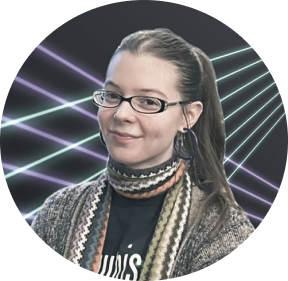
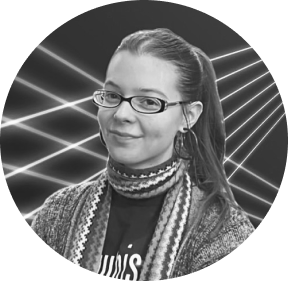
add dyanmic noise & headshot border

diff --git a/css/style.css b/css/style.css
@@ -14,6 +14,45 @@ body {
   position: relative;
 }
 
+body::after {
+  content: "";
+  position: fixed;
+  inset: 0;
+
+  background-image: url("../assets/textures/noise_layer.png");
+  background-size: cover;
+  background-position: center;
+
+  opacity: 0.85;
+  mix-blend-mode: multiply;
+
+  pointer-events: none;
+  z-index: 99999;
+
+  animation: noise-shift 0.9s steps(1) infinite;
+}
+
+@keyframes noise-shift {
+  0% {
+    transform: scale(1.1) scaleX(1);
+  }
+
+  25% {
+    transform: scale(1.1) scaleX(-1);
+  }
+
+  50% {
+    transform: scale(1.1) scaleY(-1);
+  }
+
+  75% {
+    transform: scale(1.1) scale(-1, -1);
+  }
+
+  100% {
+    transform: scale(1.1) scaleX(1);
+  }
+}
 .homepage {
   position: relative;
   width: min(100vw, calc(100vh * (1280 / 1080)));
@@ -34,21 +73,6 @@ body {
   height: 100%;
   object-fit: cover;
   z-index: 0;
-}
-
-.noise {
-  position: fixed;
-  inset: 0;
-
-  width: 100vw;
-  height: 100vh;
-
-  object-fit: cover;
-
-  opacity: 0.9;
-  pointer-events: none;
-
-  z-index: 999;
 }
 
 .issue-tag {
@@ -391,7 +415,7 @@ body {
   position: absolute;
 
   left: 15%;
-  top: 16%;
+  top: 11%;
 
   font-family: 'Space Grotesk', sans-serif;
   font-size: 2.2rem;
@@ -401,22 +425,33 @@ body {
   z-index: 5;
 }
 
+.about-headshot-border {
+  position: absolute;
+
+  width: 18%;
+  left: 61.8%;
+  top: 10%;
+
+  z-index: 4;
+}
+
 .about-headshot {
   position: absolute;
 
   width: 18%;
   left: 61.8%;
-  top: 15%;
+  top: 10%;
 
   z-index: 3;
 }
+
 
 .about-earth {
   position: absolute;
 
   width: 6%;
   left: 78%;
-  top: 35%;
+  top: 30%;
 
   z-index: 3;
 }
@@ -426,7 +461,7 @@ body {
 
   width: 20%;
   left: 60%;
-  top: 38%;
+  top: 33%;
 
   z-index: 3;
 }
@@ -542,7 +577,7 @@ body {
 
   width: 68%;
   left: 16%;
-  top: 43%;
+  top: 40%;
 
   font-family: 'IBM Plex Mono', monospace;
   font-size: 1.0rem;
@@ -556,7 +591,7 @@ body {
   position: absolute;
   width: 20%;
   left: 54%;
-  top: 30%;
+  top: 25%;
   z-index: 3;
 }
 
@@ -565,7 +600,7 @@ body {
 
   width: 20%;
   left: 58%;
-  top: 34%;
+  top: 29%;
 }
 
 .github a,

diff --git a/about.html b/about.html
@@ -19,9 +19,6 @@
 </head>
 
 <body>
-
-  <img src="assets/textures/noise_layer.png" class="noise" alt="">
-
   <main class="about-page">
 
   <div class="issue-tag">
@@ -32,6 +29,7 @@
   <div class="issue-line issue-line-bottom"></div>
       
     <img src="assets/SVG/link-bar.svg" class="geometry link-bar" alt="">
+    <img src="assets/SVG/headshot-border.svg" class="about-headshot-border" alt="">
     <img src="assets/images/headshot.png" class="about-headshot" alt="">
     <img src="assets/SVG/earth-drawing.svg" class="about-earth" alt="">
     <img src="assets/SVG/about-name.svg" class="about-name" alt="">

diff --git a/index.html b/index.html
@@ -12,8 +12,6 @@
 </head>
 
 <body>
-  <img src="assets/textures/noise_layer.png" class="noise" alt="">
-
   <main class="homepage">
 
   <div class="issue-tag">
@@ -57,7 +55,7 @@
       <div class="metadata me-meta">
         ID: rgizzo<br>
         LOCATION: MSU<br>
-        STATUS: Observing...
+        STATUS: ???
       </div>
     </div>
   
